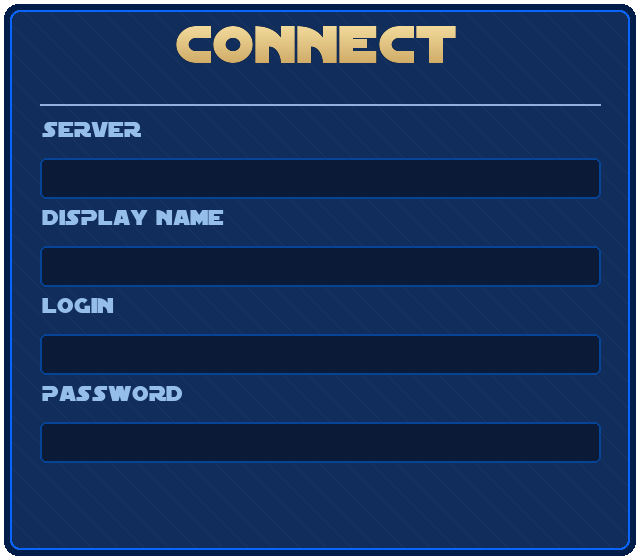
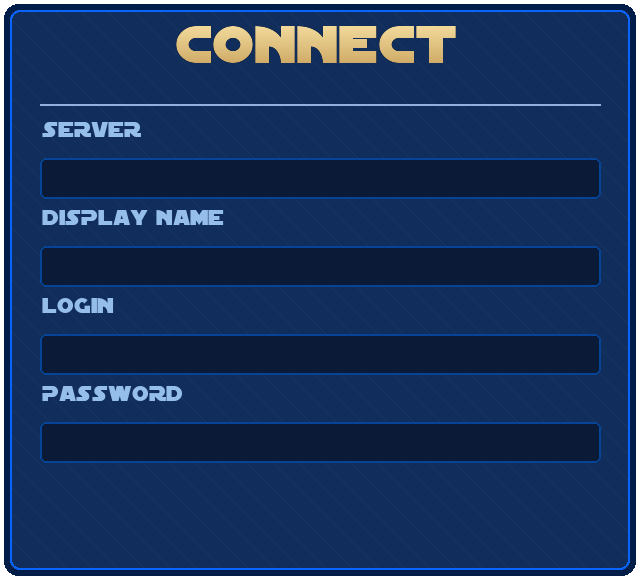
Add breathing room between the Connect button and dialog border
The button's bottom edge touched the panel's inner border line. Grew
the dialog art's canvas by 20px and bumped DIALOG_HEIGHT to match,
giving the button clearance without moving any of the rows above it.

Claude-Session: https://claude.ai/code/session_013sFCW66N6r5nnSqFjm7RAr

diff --git a/core/src/main/java/de/mkoehler/starwars/ConnectScreen.java b/core/src/main/java/de/mkoehler/starwars/ConnectScreen.java
@@ -68,7 +68,7 @@ import java.util.concurrent.atomic.AtomicReference;
 public class ConnectScreen implements Screen {
 
     private static final float DIALOG_WIDTH = 640f;
-    private static final float DIALOG_HEIGHT = 560f;
+    private static final float DIALOG_HEIGHT = 580f;
 
     private static final float FIELD_LEFT = 40f;
     private static final float FIELD_WIDTH = DIALOG_WIDTH - 2 * FIELD_LEFT;
